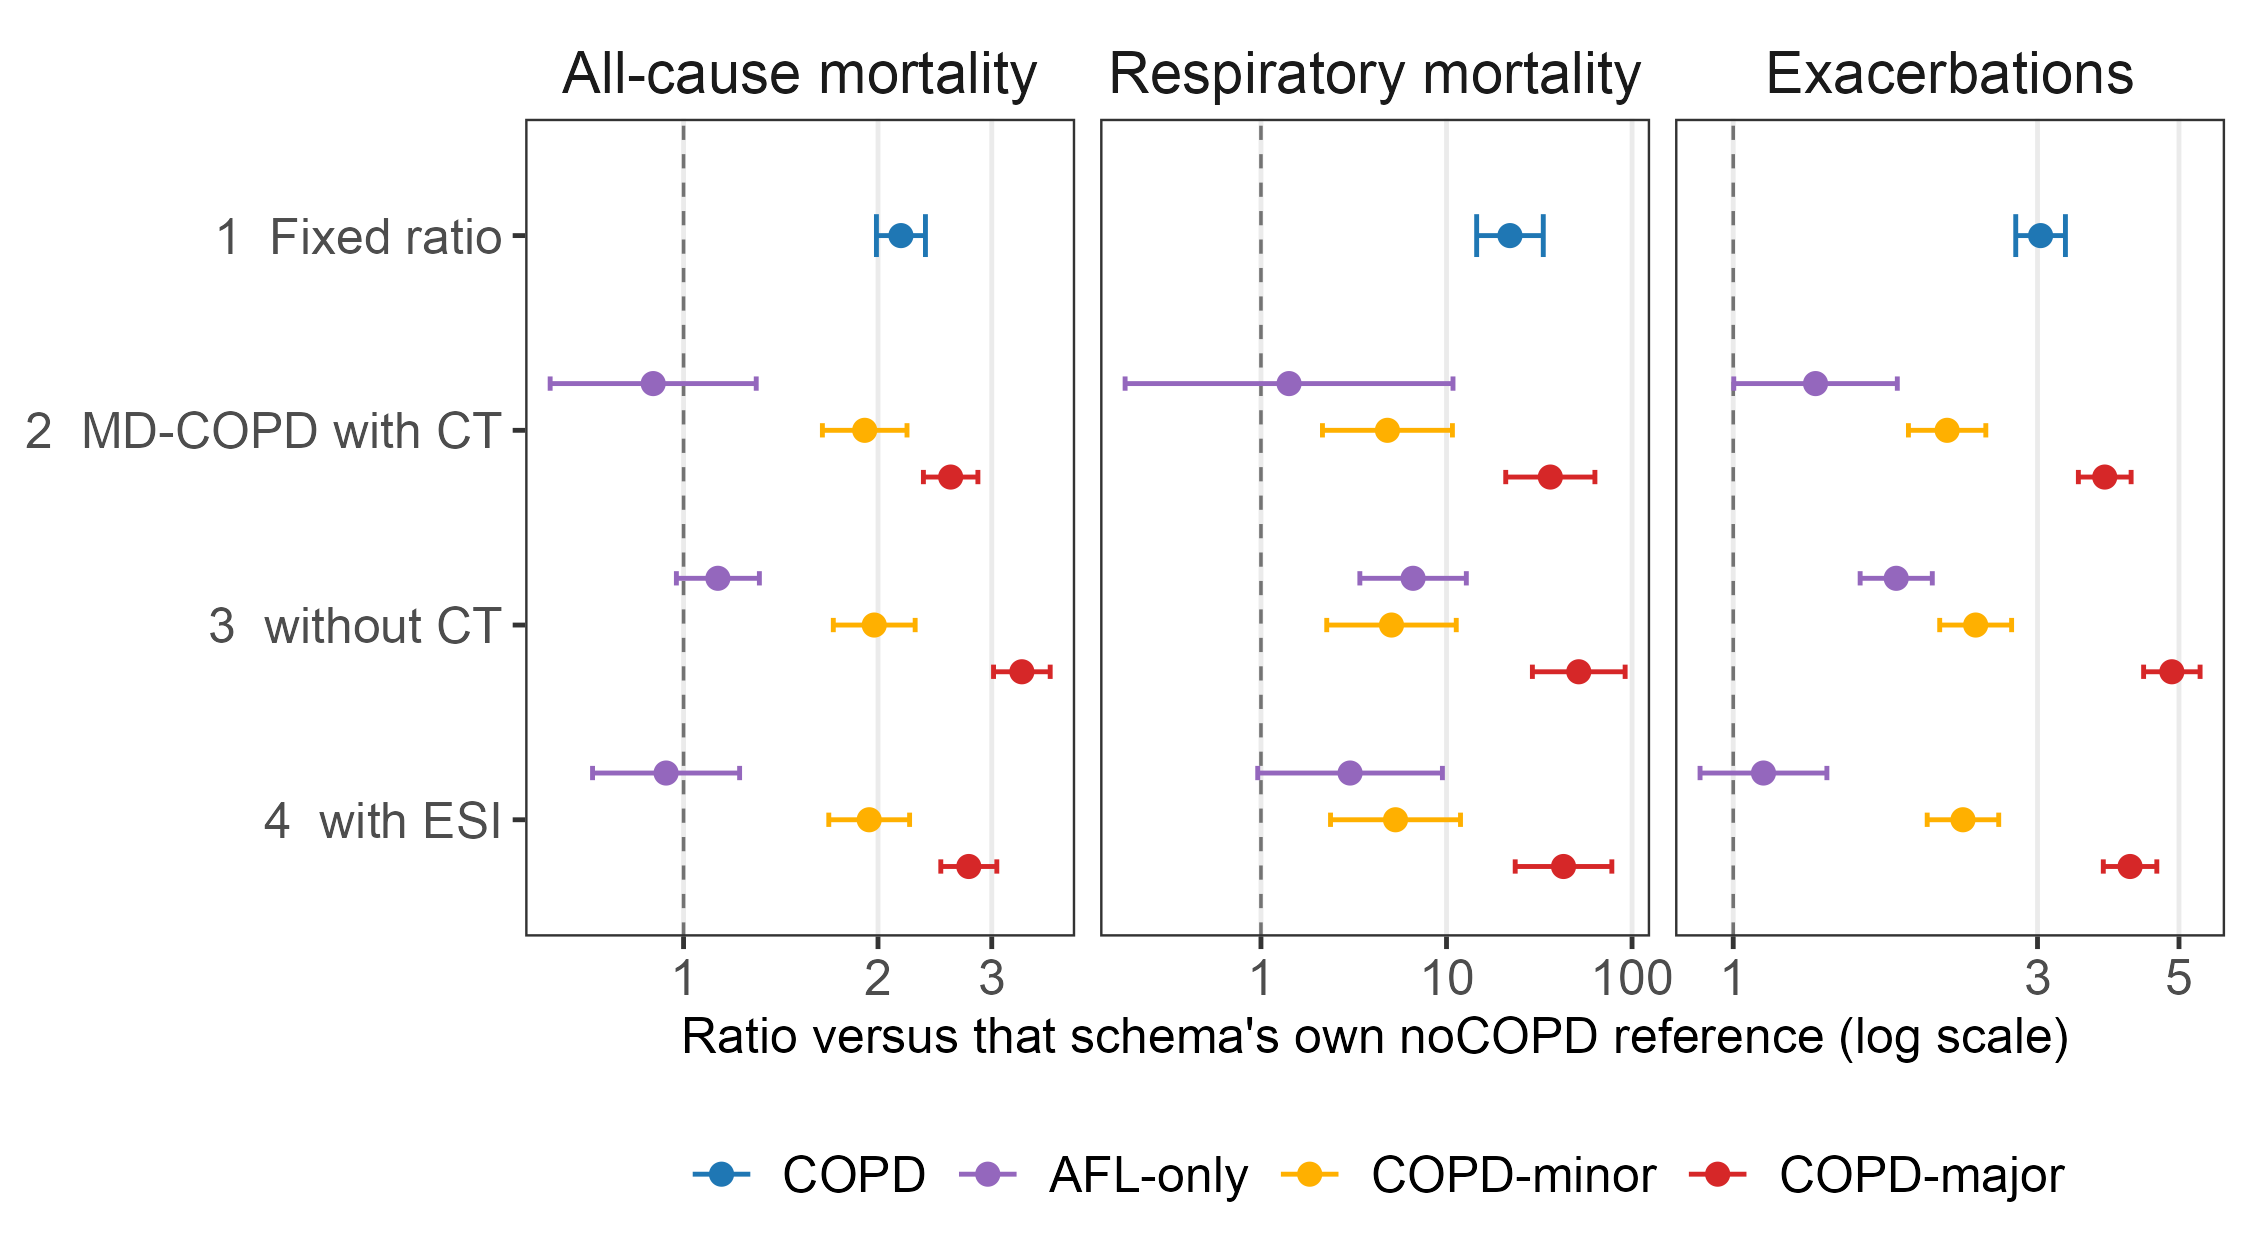
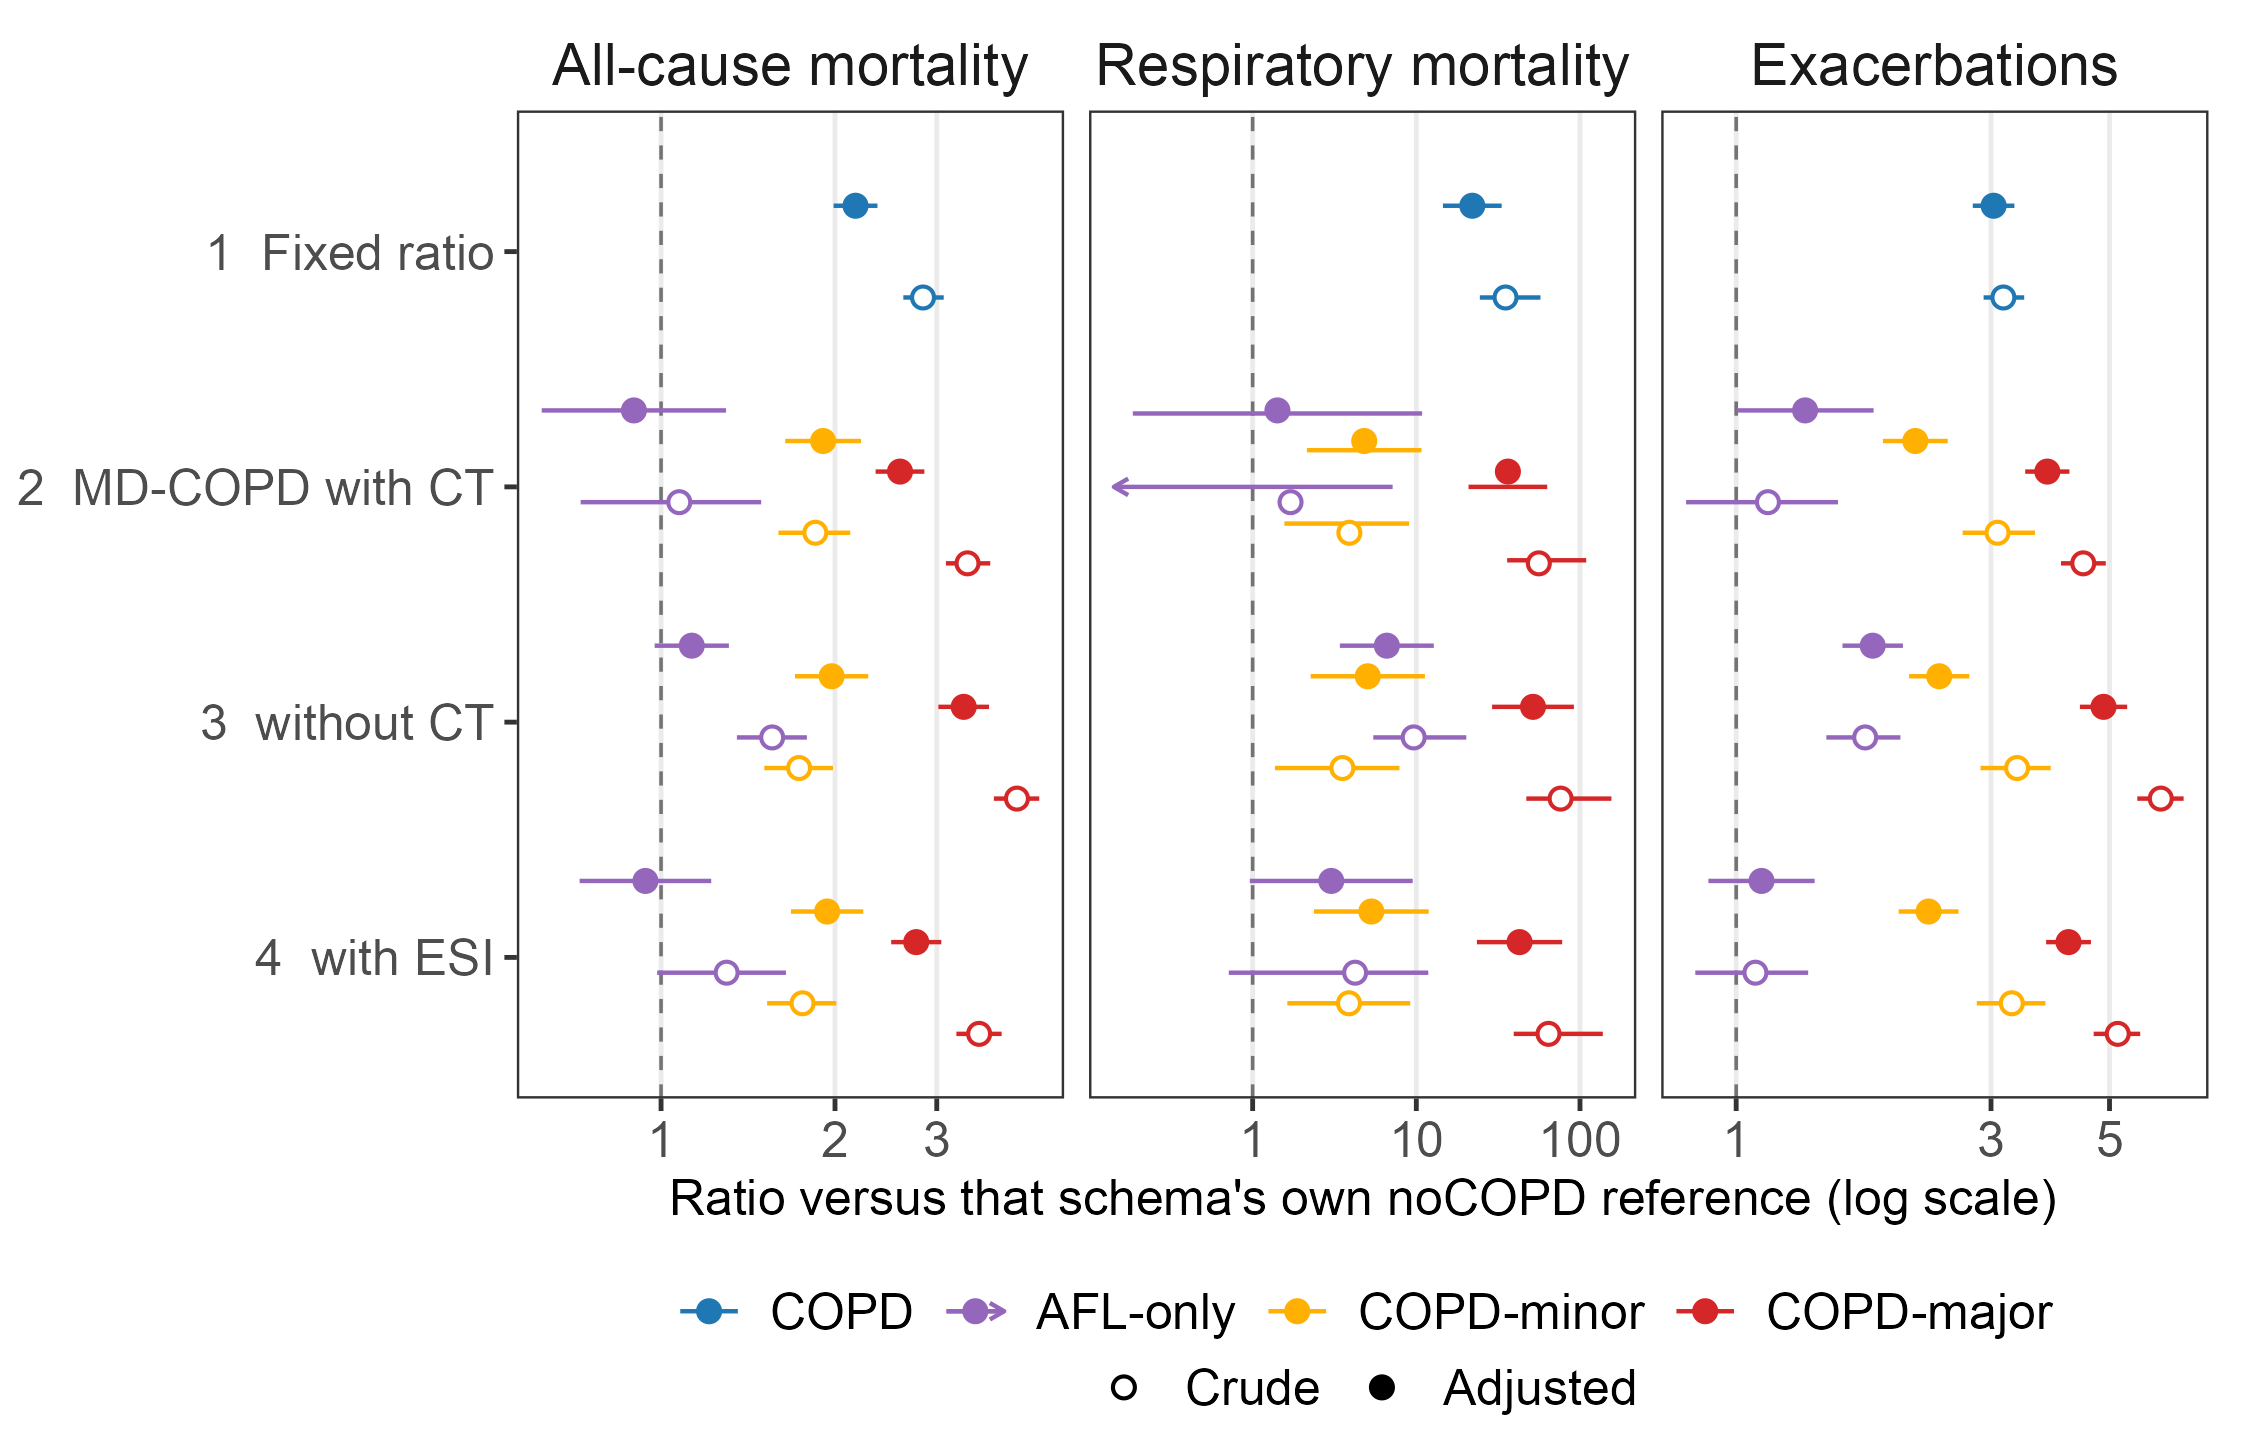
Add crude rate ratios beside the adjusted estimates
Same principle as the v15 Table 1: an adjusted hazard ratio is what the
classification contributes beyond the covariates, but nobody experiences an
adjusted rate. Both now appear for every schema and category, on one scale,
each against its own schema's noCOPD reference, so the effect of adjustment is
readable rather than a change of units.

The crude numbers sharpen the central argument rather than softening it.
Without CT, the AFL-only-noCOPD group has a crude all-cause rate ratio of 1.56
(1.35-1.79), significantly elevated, where adjustment had masked it at 1.13
(0.97-1.31), and its crude respiratory ratio is 9.64 against the adjusted
6.61. The label is worse than the adjusted models made it look.

Intervals use the convention fixed earlier today: a resample contributing no
events is a legitimate draw of zero, not a failed one, and only resamples in
which the reference has no events are cut. A resulting lower bound of exactly
zero cannot be drawn on a log axis, so Figure 2 clamps it to the panel floor
and marks it with an arrow rather than dropping the interval silently.

diff --git a/ctfree/DRAFT_TABLES.md b/ctfree/DRAFT_TABLES.md
@@ -46,28 +46,42 @@ Concordant with MD-COPD in 7,997 of 9,402 participants (85.1%).
 Concordant with MD-COPD in 8,580 of 9,402 participants (91.3%).
 
 
-## Table 3. Risk within each schema's own categories
+## Table 3. Crude and adjusted risk within each schema's own categories
 
-| Schema | Category | n | All-cause HR (95% CI) | Respiratory HR (95% CI) | Exacerbation IRR (95% CI) |
-|---|---|---|---|---|---|
-| 1 Fixed ratio | noCOPD | 5,289 | reference | reference | reference |
-|  | COPD | 4,111 | 2.17 (1.99–2.37) | 21.98 (14.54–33.23) | 3.03 (2.77–3.32) |
-| | *discrimination* | | *C = 0.6945* | *C = 0.8454* | *AIC = 30326* |
-| 2 MD-COPD with CT | noCOPD | 4,203 | reference | reference | reference |
-|  | AFL-only | 170 | 0.90 (0.62–1.30) | 1.42 (0.19–10.84) | 1.35 (1.00–1.81) |
-|  | COPD-minor | 1,086 | 1.91 (1.64–2.22) | 4.80 (2.14–10.76) | 2.16 (1.88–2.49) |
-|  | COPD-major | 3,941 | 2.59 (2.35–2.86) | 36.27 (20.85–63.07) | 3.82 (3.48–4.21) |
-| | *discrimination* | | *C = 0.7034* | *C = 0.8527* | *AIC = 30168* |
-| 3 without CT | noCOPD | 3,981 | reference | reference | reference |
-|  | AFL-only | 1,119 | 1.13 (0.97–1.31) | 6.61 (3.41–12.79) | 1.80 (1.58–2.05) |
-|  | COPD-minor | 1,308 | 1.97 (1.71–2.28) | 5.05 (2.26–11.29) | 2.40 (2.11–2.73) |
-|  | COPD-major | 2,992 | 3.34 (3.02–3.69) | 51.62 (29.03–91.78) | 4.87 (4.40–5.40) |
-| | *discrimination* | | *C = 0.7219* | *C = 0.8755* | *AIC = 29970* |
-| 4 with ESI | noCOPD | 3,903 | reference | reference | reference |
-|  | AFL-only | 310 | 0.94 (0.72–1.22) | 3.02 (0.96–9.51) | 1.12 (0.89–1.40) |
-|  | COPD-minor | 1,386 | 1.94 (1.68–2.24) | 5.31 (2.37–11.90) | 2.29 (2.01–2.61) |
-|  | COPD-major | 3,801 | 2.76 (2.50–3.05) | 42.72 (23.45–77.82) | 4.19 (3.80–4.62) |
-| | *discrimination* | | *C = 0.7079* | *C = 0.8581* | *AIC = 30066* |
+Each estimate is against that schema's own noCOPD reference. Crude ratios are
+the observed event rate in the category divided by the observed rate in the
+reference, with 95% percentile intervals from a subject resample bootstrap;
+adjusted estimates are hazard ratios (mortality) and incidence-rate ratios
+(exacerbations) from models carrying age, sex, race, current smoking status,
+pack-years and body mass index, with prior exacerbation frequency added for
+exacerbations. Reading each pair together shows how much of an association the
+covariates account for.
+
+| Schema | Category | n | All-cause crude RR | All-cause adjusted HR | Respiratory crude RR | Respiratory adjusted HR | Exacerbation crude RR | Exacerbation adjusted IRR |
+|---|---|---|---|---|---|---|---|---|
+| 1 Fixed ratio | noCOPD | 5,289 | reference | reference | reference | reference | reference | reference |
+|  | COPD | 4,111 | 2.84 (2.63–3.08) | 2.17 (1.99–2.37) | 35.08 (24.44–57.33) | 21.98 (14.54–33.23) | 3.16 (2.91–3.46) | 3.03 (2.77–3.32) |
+| 2 MD-COPD with CT | noCOPD | 4,203 | reference | reference | reference | reference | reference | reference |
+|  | AFL-only | 170 | 1.08 (0.73–1.49) | 0.90 (0.62–1.30) | 1.70 (0.00–7.17) | 1.42 (0.19–10.84) | 1.15 (0.81–1.55) | 1.35 (1.00–1.81) |
+|  | COPD-minor | 1,086 | 1.85 (1.60–2.13) | 1.91 (1.64–2.22) | 3.90 (1.56–9.03) | 4.80 (2.14–10.76) | 3.09 (2.65–3.63) | 2.16 (1.88–2.49) |
+|  | COPD-major | 3,941 | 3.39 (3.11–3.71) | 2.59 (2.35–2.86) | 56.05 (35.90–109.15) | 36.27 (20.85–63.07) | 4.46 (4.06–4.92) | 3.82 (3.48–4.21) |
+| 3 without CT | noCOPD | 3,981 | reference | reference | reference | reference | reference | reference |
+|  | AFL-only | 1,119 | 1.56 (1.35–1.79) | 1.13 (0.97–1.31) | 9.64 (5.46–20.20) | 6.61 (3.41–12.79) | 1.74 (1.48–2.03) | 1.80 (1.58–2.05) |
+|  | COPD-minor | 1,308 | 1.73 (1.51–1.98) | 1.97 (1.71–2.28) | 3.53 (1.37–7.89) | 5.05 (2.26–11.29) | 3.36 (2.87–3.88) | 2.40 (2.11–2.73) |
+|  | COPD-major | 2,992 | 4.13 (3.77–4.51) | 3.34 (3.02–3.69) | 76.14 (47.00–155.65) | 51.62 (29.03–91.78) | 6.24 (5.64–6.88) | 4.87 (4.40–5.40) |
+| 4 with ESI | noCOPD | 3,903 | reference | reference | reference | reference | reference | reference |
+|  | AFL-only | 310 | 1.30 (0.98–1.65) | 0.94 (0.72–1.22) | 4.23 (0.71–11.83) | 3.02 (0.96–9.51) | 1.09 (0.84–1.36) | 1.12 (0.89–1.40) |
+|  | COPD-minor | 1,386 | 1.76 (1.53–2.01) | 1.94 (1.68–2.24) | 3.88 (1.63–9.18) | 5.31 (2.37–11.90) | 3.28 (2.82–3.79) | 2.29 (2.01–2.61) |
+|  | COPD-major | 3,801 | 3.55 (3.24–3.88) | 2.76 (2.50–3.05) | 64.23 (39.37–137.90) | 42.72 (23.45–77.82) | 5.18 (4.67–5.71) | 4.19 (3.80–4.62) |
+
+**Discrimination**
+
+| Schema | All-cause C-index | Respiratory C-index | Exacerbation AIC |
+|---|---|---|---|
+| 1 Fixed ratio | 0.6945 | 0.8454 | 30326 |
+| 2 MD-COPD with CT | 0.7034 | 0.8527 | 30168 |
+| 3 without CT | 0.7219 | 0.8755 | 29970 |
+| 4 with ESI | 0.7079 | 0.8581 | 30066 |
 
 ## Table 4. Fitting the CT-free schemas to approximate MD-COPD
 
